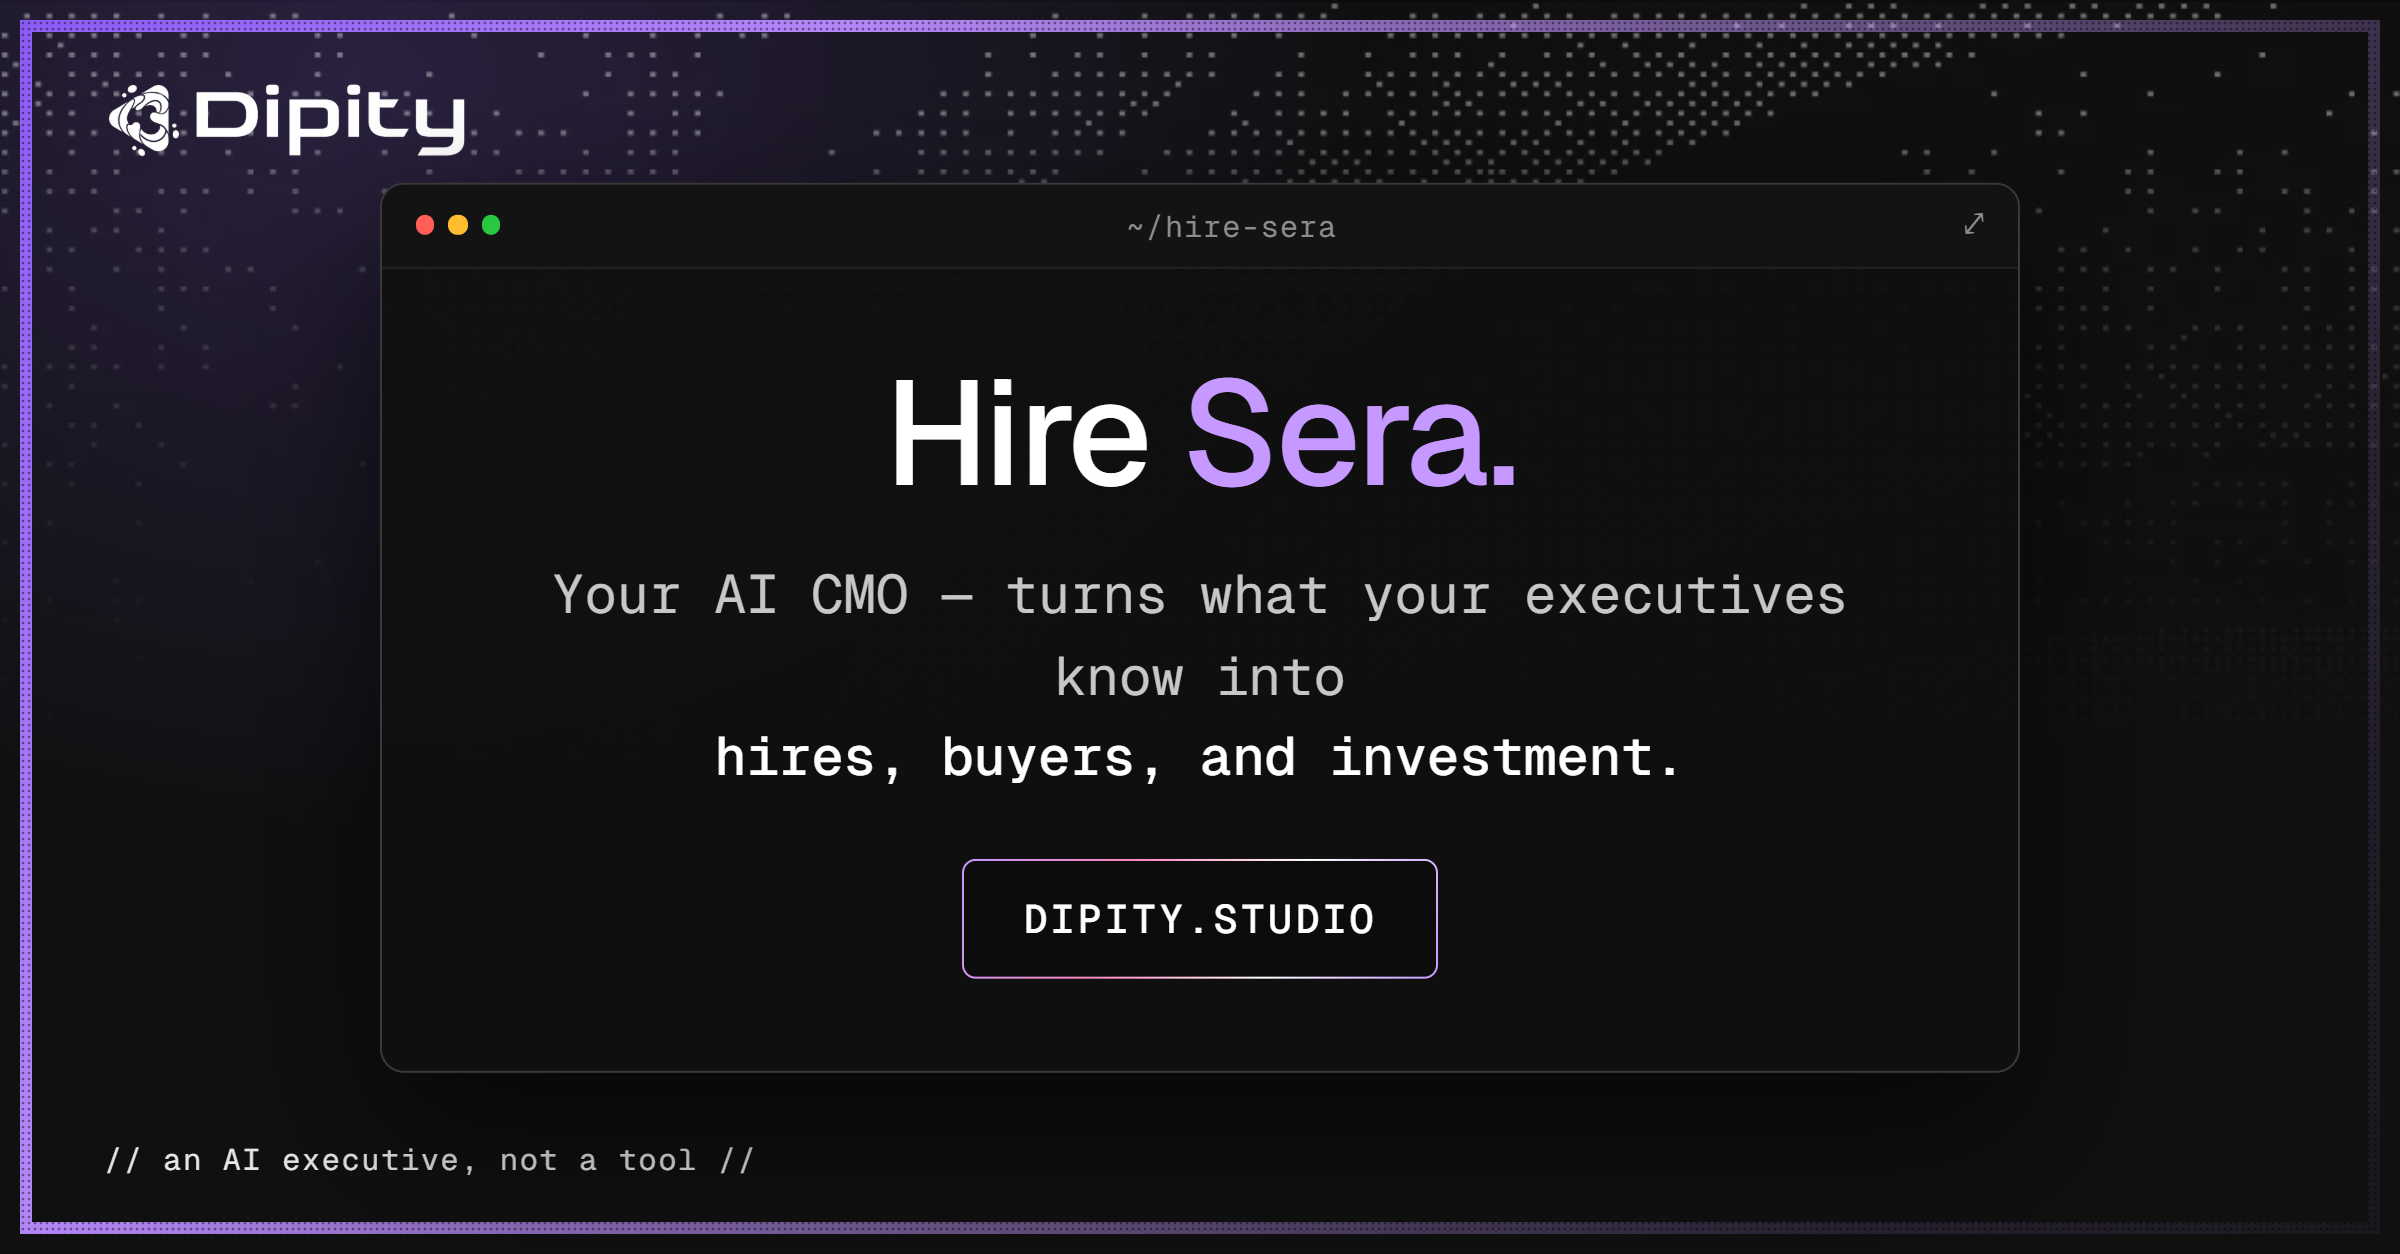
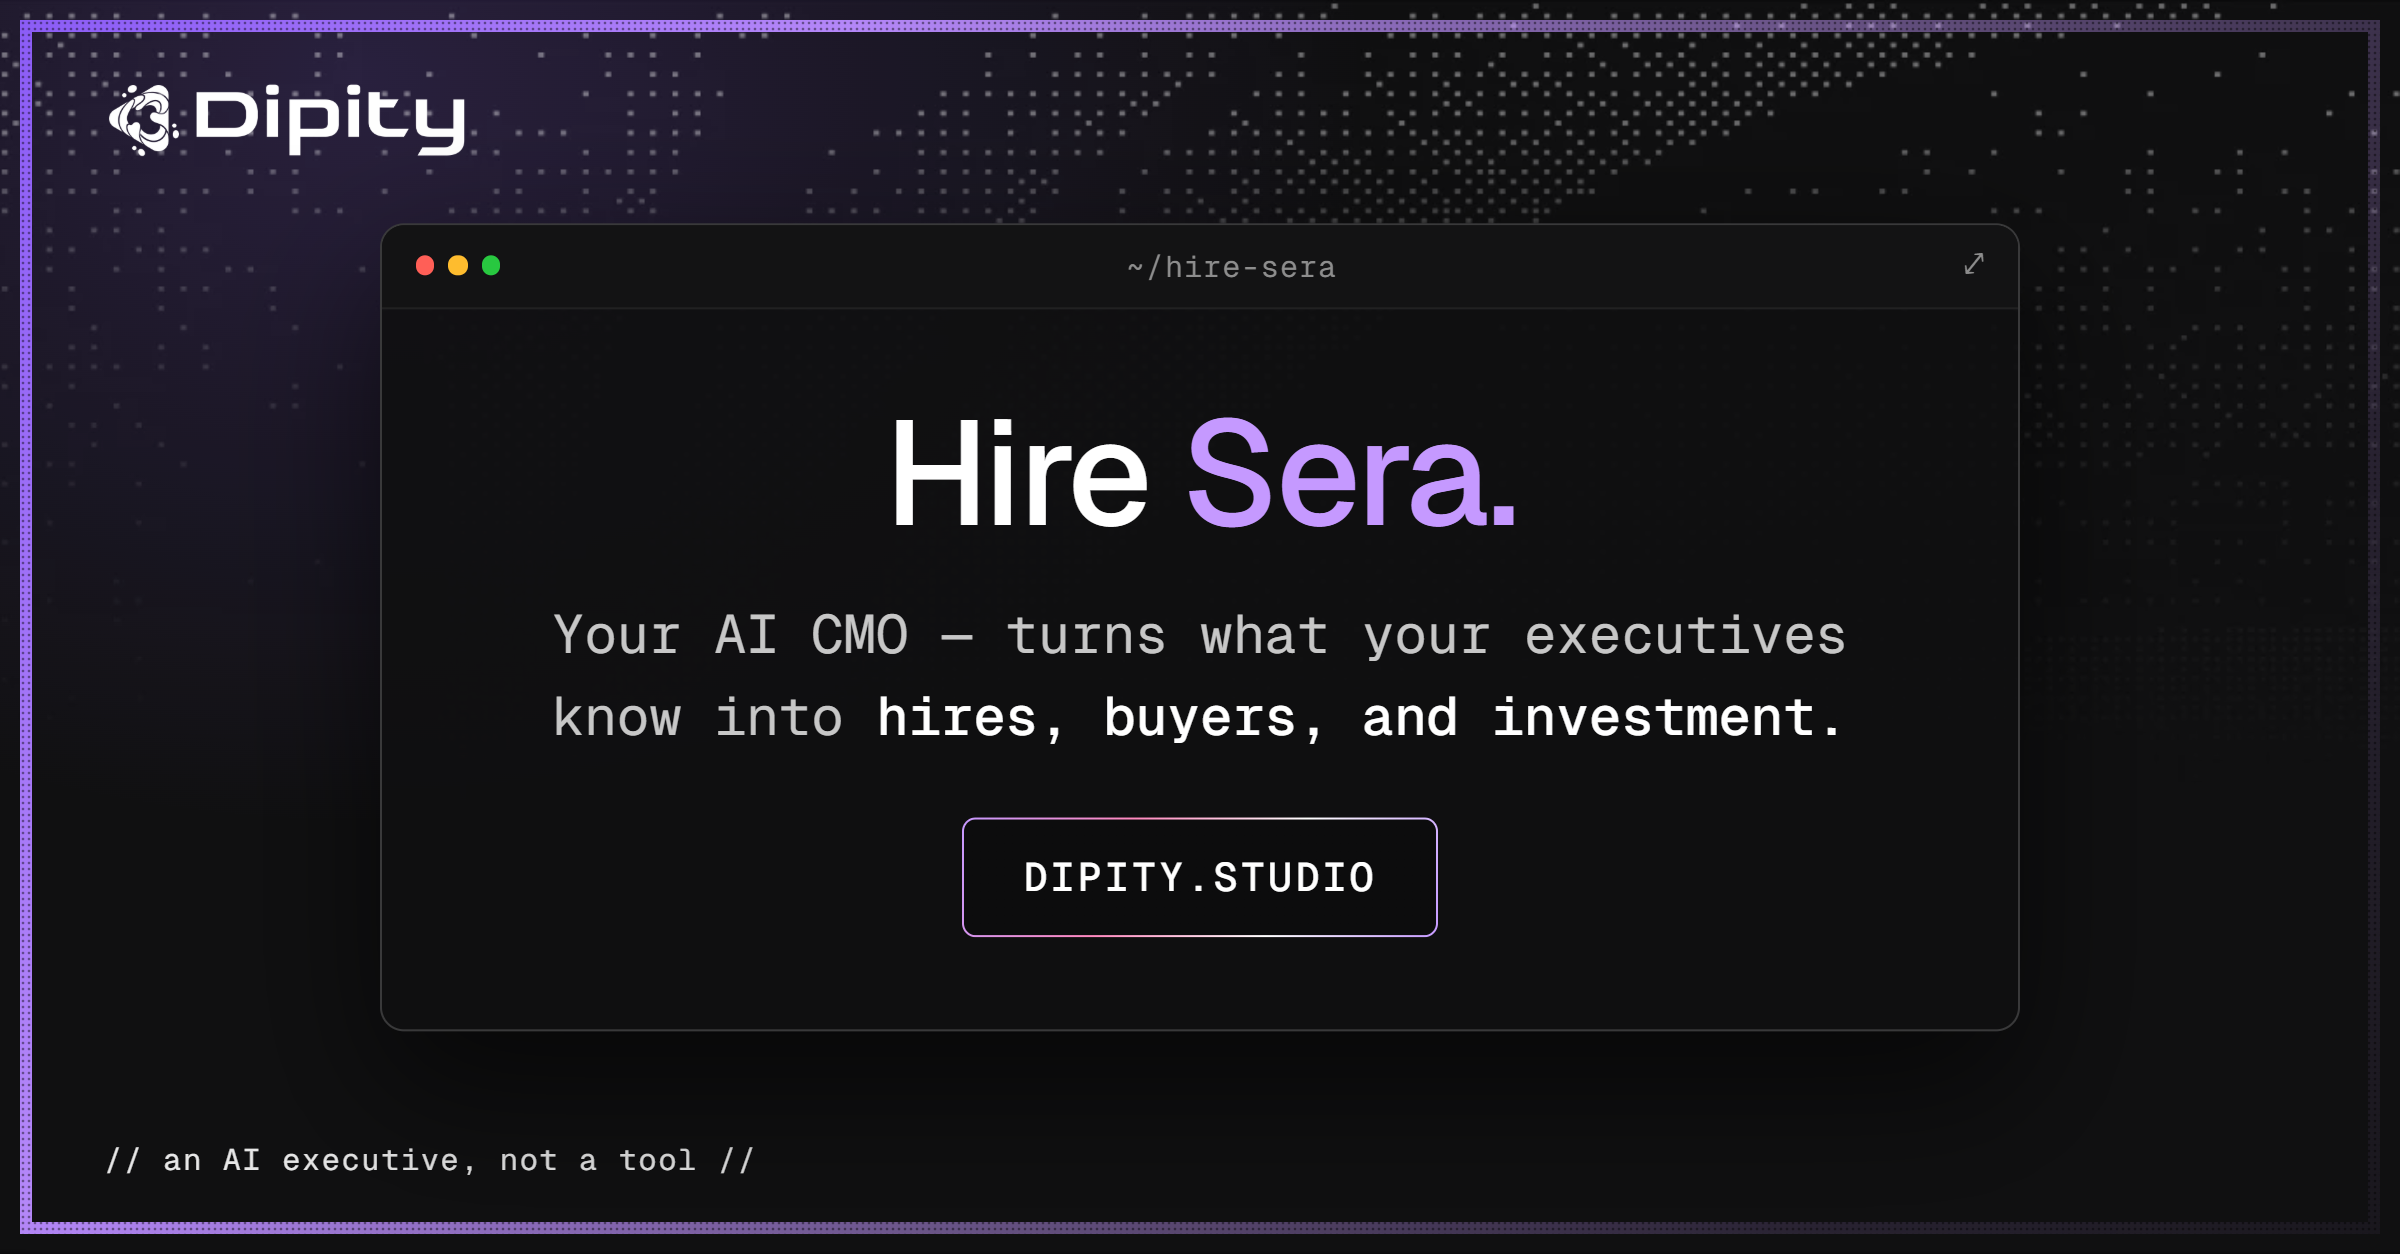
Hire Sera card: break so 'hires, buyers, and investment' stays on line 2

diff --git a/banners/featured.html b/banners/featured.html
@@ -73,7 +73,7 @@ body{background:#333;font-family:'Geist',sans-serif;-webkit-font-smoothing:antia
     <div class="pbar"><i></i><i></i><i></i><span>~/hire-sera</span><b>⤢</b></div>
     <div class="pbody">
       <h1>Hire <span class="acc">Sera.</span></h1>
-      <div class="sub">Your AI CMO — turns what your executives know into<br><b>hires, buyers, and investment.</b></div>
+      <div class="sub">Your AI CMO — turns what your executives<br>know into <b>hires, buyers, and investment.</b></div>
       <span class="cta">dipity.studio</span>
     </div>
   </div>
